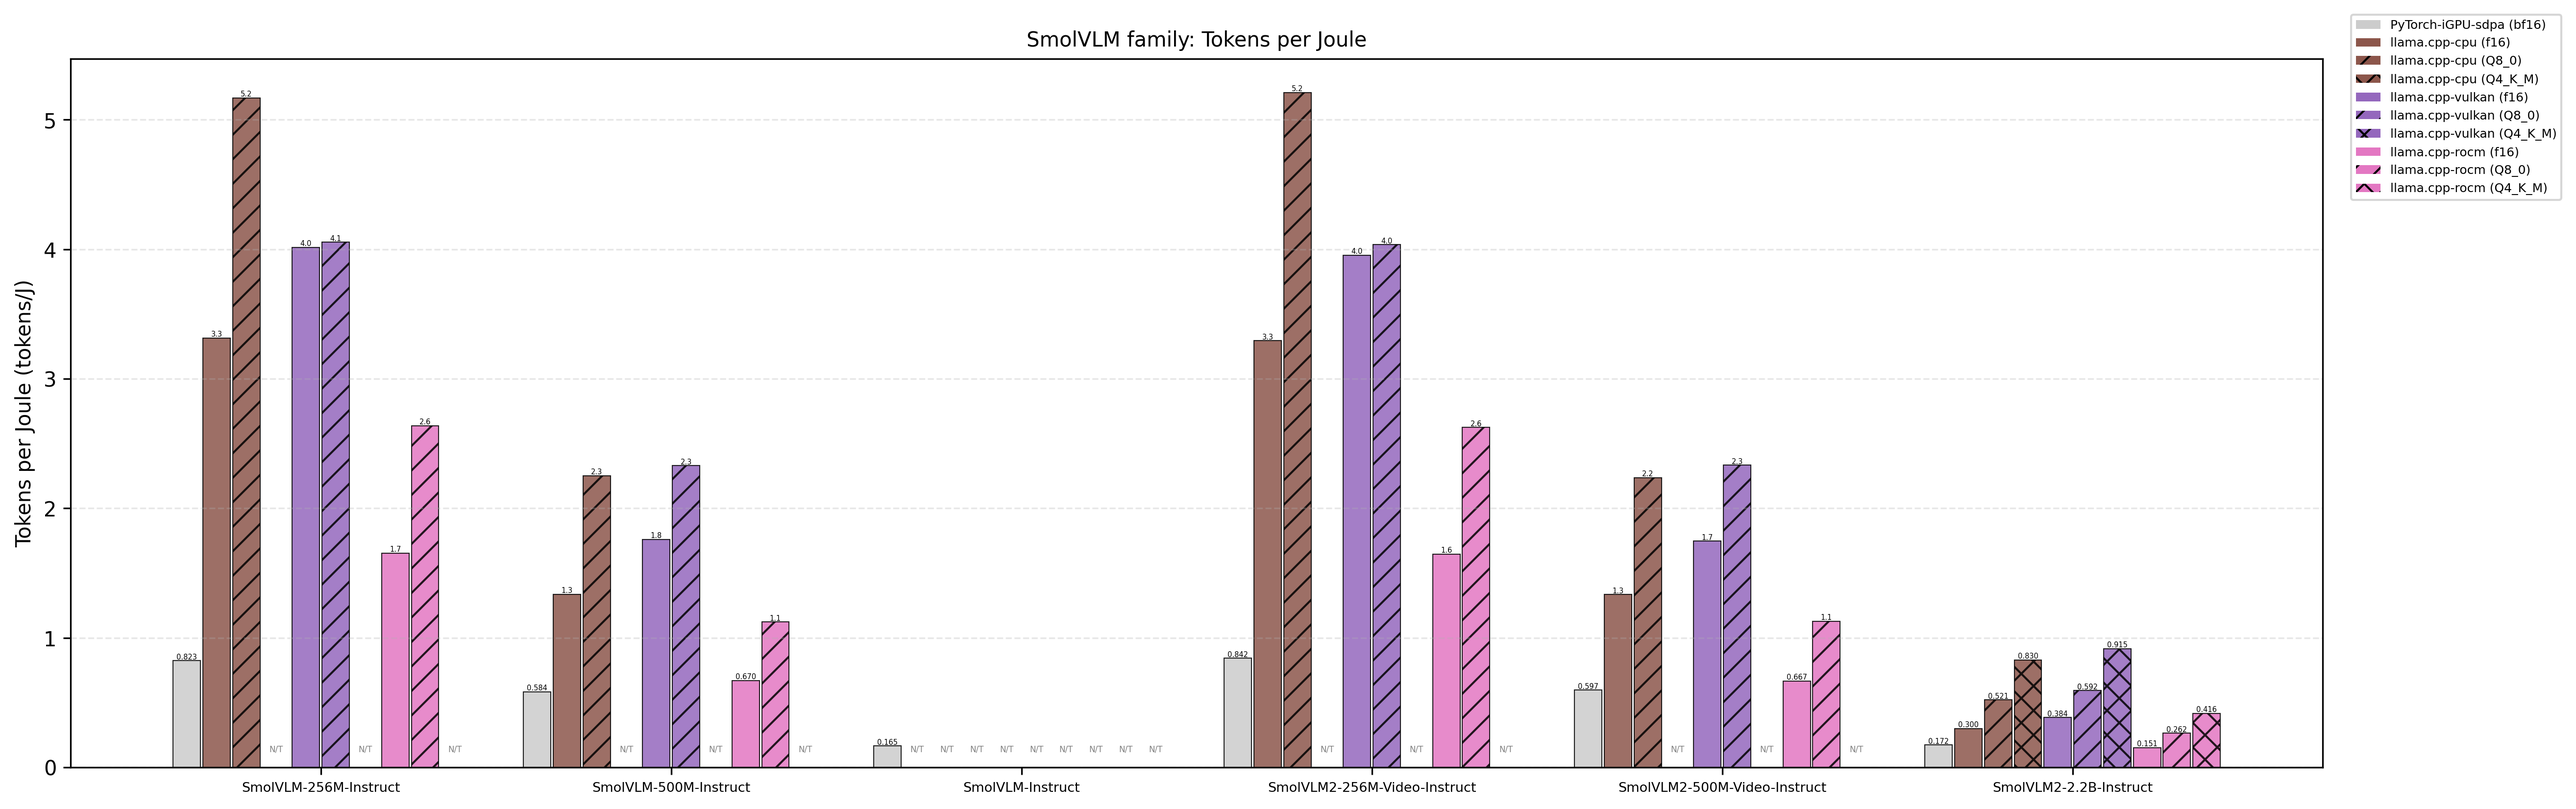
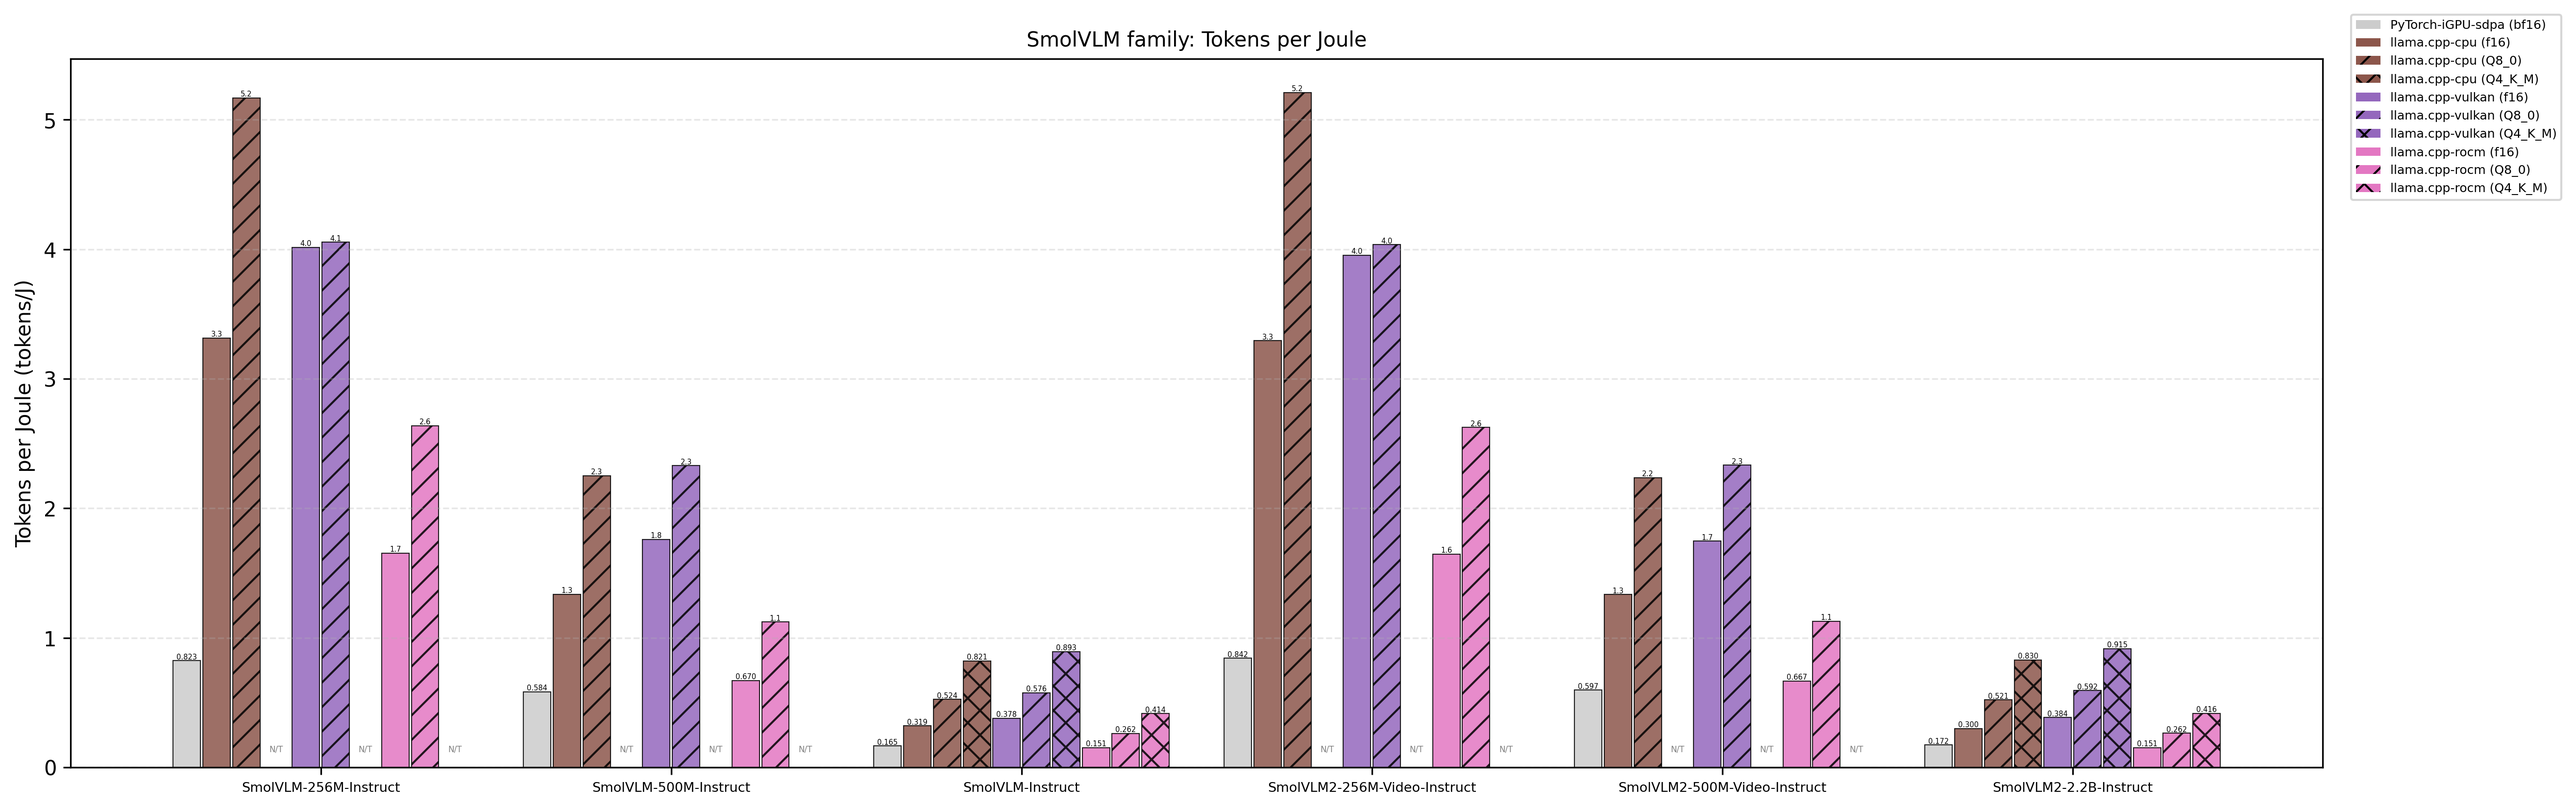
perf(benchmarks): update profiling charts for SmolVLM and SmolVLM2 models

Changed region(s): [[0.3432, 0.8031, 0.4679, 0.9576]]

diff --git a/docs/Profiling/result.md b/docs/Profiling/result.md
@@ -6,12 +6,8 @@
 
 ## 1. SmolVLM-Instruct
 
-!!! warning "llama.cpp Data Pending Retest"
-    SmolVLM-Instruct llama.cpp data was removed due to quality issues. Requires retest with the custom llama.cpp build (see [methodology](methodology.md#llamacpp-build-status)). PyTorch results are below; llama.cpp rows pending.
-
-
 | Dtype | Configuration | TTFT (ms) | TPOT (ms) | Avg Power (W) | Energy per Inference (J) | Peak Memory (GB) | Tokens per Joule |
-|---|---|---|---|---|---|---|---|
+|---|---|---|---|---|---|---|---|---|
 | **BF16** | Windows-PyTorch-CPU | 153479.1 | 177.8 | 50.65 | 10026.4 | 5.07 | 0.0128 |
 | | WSL-PyTorch-CPU | 128283.0 | 288.0 | 45.26 | 19624.3 | 5.92 | 0.0065 |
 | | Linux-PyTorch-CPU | 108474.0 | 147.4 | 51.03 | 6645.3 | 6.30 | 0.0193 |
@@ -21,15 +17,15 @@
 | | Windows-PyTorch-iGPU-SDPA | 6954.4 | 107.0 | 42.75 | 936.4 | 5.09 | 0.1367 |
 | | WSL-PyTorch-iGPU-SDPA | 7272.6 | 105.9 | 45.49 | 1091.4 | 5.09 | 0.1173 |
 | | Linux-PyTorch-iGPU-SDPA | 6933.8 | 99.22 | 37.65 | 777.9 | 5.09 | 0.1645 |
-| **f16** | Linux-llama.cpp-CPU | - | - | - | - | - | - |
-| | Linux-llama.cpp-iGPU-Vulkan | - | - | - | - | - | - |
-| | Linux-llama.cpp-iGPU-ROCm | - | - | - | - | - | - |
-| **Q8_0** | Linux-llama.cpp-CPU | - | - | - | - | - | - |
-| | Linux-llama.cpp-iGPU-Vulkan | - | - | - | - | - | - |
-| | Linux-llama.cpp-iGPU-ROCm | - | - | - | - | - | - |
-| **Q4_K_M** | Linux-llama.cpp-CPU | - | - | - | - | - | - |
-| | Linux-llama.cpp-iGPU-Vulkan | - | - | - | - | - | - |
-| | Linux-llama.cpp-iGPU-ROCm | - | - | - | - | - | - |
+| **f16** | Linux-llama.cpp-CPU | 371.1 | 59.98 | 47.65 | 400.7 | 7.02 | 0.319 |
+| | Linux-llama.cpp-iGPU-Vulkan | 115.6 | 46.75 | 53.29 | 338.3 | 0.20 | 0.378 |
+| | Linux-llama.cpp-iGPU-ROCm | 750.7 | 59.47 | 97.87 | 845.4 | 7.02 | 0.151 |
+| **Q8_0** | Linux-llama.cpp-CPU | 306.9 | 32.90 | 51.28 | 244.1 | 5.43 | 0.524 |
+| | Linux-llama.cpp-iGPU-Vulkan | 94.7 | 24.37 | 67.43 | 222.3 | 0.20 | 0.576 |
+| | Linux-llama.cpp-iGPU-ROCm | 339.9 | 32.81 | 105.3 | 489.1 | 5.44 | 0.262 |
+| **Q4_K_M** | Linux-llama.cpp-CPU | 305.1 | 20.12 | 51.95 | 155.9 | 4.68 | 0.821 |
+| | Linux-llama.cpp-iGPU-Vulkan | 95.3 | 15.36 | 68.10 | 143.3 | 0.20 | 0.893 |
+| | Linux-llama.cpp-iGPU-ROCm | 295.7 | 20.10 | 105.2 | 308.9 | 4.68 | 0.414 |
 
 ### Charts
 
@@ -92,7 +88,7 @@
 ## 3. Full SmolVLM Family (All Models)
 
 !!! info "Model Naming & Test Environment"
-    SmolVLM-Instruct (original) and SmolVLM2-* (second generation, adds video understanding). **All tests in this table are on Linux** — PyTorch rows use iGPU-BF16-SDPA, llama.cpp rows cover CPU/Vulkan/ROCm backends. llama.cpp data for SmolVLM-Instruct is pending retest (custom build needed).
+    SmolVLM-Instruct (original) and SmolVLM2-* (second generation, adds video understanding). **All tests in this table are on Linux** — PyTorch rows use iGPU-BF16-SDPA, llama.cpp rows cover CPU/Vulkan/ROCm backends.
 
 | Model | Backend | Dtype | TTFT (ms) | TPOT (ms) | Avg Power (W) | Energy per Inference (J) | Peak Memory (GB) | Tokens per Joule |
 |---|---|---|---|---|---|---|---|---|
@@ -117,15 +113,15 @@
 | | llama.cpp-rocm | Q8_0 | 76.26 | 7.68 | 105.2 | 114.0 | 0.87 | 1.12 |
 | | llama.cpp-rocm | Q4_K_M | - | - | - | - | - | - |
 | **SmolVLM-Instruct** | PyTorch-iGPU-sdpa | bf16 | 6933.8 | 99.22 | 37.65 | 777.9 | 5.09 | 0.1645 |
-| | llama.cpp-cpu | f16 | - | - | - | - | - | - |
-| | llama.cpp-cpu | Q8_0 | - | - | - | - | - | - |
-| | llama.cpp-cpu | Q4_K_M | - | - | - | - | - | - |
-| | llama.cpp-vulkan | f16 | - | - | - | - | - | - |
-| | llama.cpp-vulkan | Q8_0 | - | - | - | - | - | - |
-| | llama.cpp-vulkan | Q4_K_M | - | - | - | - | - | - |
-| | llama.cpp-rocm | f16 | - | - | - | - | - | - |
-| | llama.cpp-rocm | Q8_0 | - | - | - | - | - | - |
-| | llama.cpp-rocm | Q4_K_M | - | - | - | - | - | - |
+| | llama.cpp-cpu | f16 | 371.1 | 59.98 | 47.65 | 400.7 | 7.02 | 0.319 |
+| | llama.cpp-cpu | Q8_0 | 306.9 | 32.90 | 51.28 | 244.1 | 5.43 | 0.524 |
+| | llama.cpp-cpu | Q4_K_M | 305.1 | 20.12 | 51.95 | 155.9 | 4.68 | 0.821 |
+| | llama.cpp-vulkan | f16 | 115.6 | 46.75 | 53.29 | 338.3 | 0.20 | 0.378 |
+| | llama.cpp-vulkan | Q8_0 | 94.7 | 24.37 | 67.43 | 222.3 | 0.20 | 0.576 |
+| | llama.cpp-vulkan | Q4_K_M | 95.3 | 15.36 | 68.10 | 143.3 | 0.20 | 0.893 |
+| | llama.cpp-rocm | f16 | 750.7 | 59.47 | 97.87 | 845.4 | 7.02 | 0.151 |
+| | llama.cpp-rocm | Q8_0 | 339.9 | 32.81 | 105.3 | 489.1 | 5.44 | 0.262 |
+| | llama.cpp-rocm | Q4_K_M | 295.7 | 20.10 | 105.2 | 308.9 | 4.68 | 0.414 |
 | **SmolVLM2-256M-Video-Instruct** | PyTorch-iGPU-sdpa | bf16 | 2132.4 | 17.85 | 32.62 | 152.0 | 1.39 | 0.8418 |
 | | llama.cpp-cpu | f16 | 67.47 | 5.44 | 48.70 | 38.86 | 0.63 | 3.29 |
 | | llama.cpp-cpu | Q8_0 | 30.14 | 3.31 | 51.93 | 24.57 | 0.48 | 5.21 |

diff --git a/docs/Profiling/index.md b/docs/Profiling/index.md
@@ -26,26 +26,27 @@ This section documents performance profiling for **SmolVLM** (vision-language) a
 !!! tip "iGPU over CPU"
     iGPU acceleration provides **20–22× faster TTFT** and **1.5–2.7× faster TPOT** compared to CPU-only inference, while consuming comparable or lower power.
 
-### llamesa.cpp — Projected Impact (Pending Retest)
+### llama.cpp — Actual Results
 
-!!! abstract "llama.cpp Will Be a Game Changer"
-    While PyTorch iGPU delivers ~7s TTFT, llama.cpp on the **same hardware** with quantized models is projected to achieve **real-time inference** (< 100ms TTFT, ~15ms TPOT), based on results from smaller SmolVLM models:
+!!! abstract "llama.cpp Delivers Real-Time Inference"
+    llama.cpp with quantized models on the **same hardware** achieves **real-time inference** (< 100ms TTFT, ~15ms TPOT) for SmolVLM-Instruct, matching the performance previously seen on smaller models:
 
     | Model | llama.cpp Vulkan TTFT | PyTorch iGPU TTFT | Speedup |
     |---|---|---|---|
-    | SmolVLM2-2.2B | **95 ms** (Q4_K_M) | 6619 ms | **~70×** |
+    | SmolVLM-Instruct (2.2B) | **95 ms** (Q4_K_M) | 6934 ms | **~73×** |
+    | SmolVLM2-2.2B-Instruct | **95 ms** (Q4_K_M) | 6619 ms | **~70×** |
     | SmolVLM-500M | **40 ms** (Q8_0) | 2422 ms | **~60×** |
     | SmolVLM-256M | **20 ms** (f16) | 2133 ms | **~107×** |
 
     These speedups come with quantization-induced accuracy loss that needs evaluation (see [Planned Accuracy Benchmarks](methodology.md#accuracy-benchmarks-planned)).
 
-!!! warning "llama.cpp SmolVLM-Instruct — Requires Custom Build"
-    The **full SmolVLM-Instruct (2.2B) model** cannot run with the **official llama.cpp** release due to model architecture compatibility issues. A custom patch is being developed.
+!!! success "llama.cpp SmolVLM-Instruct — Fully Tested"
+    The **full SmolVLM-Instruct (2.2B) model** has been successfully profiled across CPU, Vulkan, and ROCm backends and all three quantizations (f16, Q8_0, Q4_K_M). See the [Full Results](result.md#1-smolvlm-instruct) for detailed metrics.
 
-    **Recommended alternatives while patch is in progress:**
-    - **SmolVLM2-2.2B-Instruct** (fully compatible, similar quality, ~95ms TTFT via Vulkan Q4_K_M)
-    - **Smaller models** (256M / 500M) via llama.cpp for real-time use cases
-    - **PyTorch with ROCm** for full-precision inference
+!!! success "Key Findings"
+    - **Vulkan Q4_K_M delivers the best latency**: ~95ms TTFT, ~15ms TPOT
+    - **ROCm is on par with CPU** for this model — no GPU acceleration benefit over CPU in llama.cpp
+    - **Vulkan edge case**: GPU offloading reduces host memory drastically (0.2 GB vs 4.7–7.0 GB)
 
 ### VGGT
 
@@ -58,7 +59,7 @@ This section documents performance profiling for **SmolVLM** (vision-language) a
 | iGPU BF16 (Linux) | **30.3s** | **0.066 img/s** | Best result |
 | iGPU F32 (Linux) | 43.3s–45.1s | 0.044–0.046 img/s | Negligible SDPA benefit |
 
-    iGPU results on Windows/WSL are incomplete — see [VGGT section](result.md#3-vggt) for details.
+    iGPU results on Windows/WSL are incomplete — see [VGGT section](result.md#2-vggt) for details.
 
 ### Platform Comparison
 
@@ -82,17 +83,16 @@ The chart above illustrates the dramatic speed difference across model sizes and
 ## Quick Navigation
 
 | Section | Content |
-|---|---|
+|---|---|---|
 | [Methodology](methodology.md) | Hardware specs, software versions, metric definitions |
-| [SmolVLM-Instruct (PyTorch)](result.md#1-smolvlm-instruct-pytorch) | Full precision results across 3 environments |
-| [SmolVLM-Instruct (llama.cpp, Pending)](result.md#2-smolvlm-instruct-llamacpp--pending) | Placeholder for upcoming llama.cpp retest |
-| [VGGT](result.md#3-vggt) | All configs across platforms |
-| [Other SmolVLM Models](result.md#4-other-smolvlm-family-models) | Smaller models, PyTorch + llama.cpp |
+| [SmolVLM-Instruct](result.md#1-smolvlm-instruct) | PyTorch + llama.cpp results across all backends |
+| [VGGT](result.md#2-vggt) | All configs across platforms |
+| [Full SmolVLM Family](result.md#3-full-smolvlm-family-all-models) | All models, PyTorch + llama.cpp |
 
 ## Next Steps
 
 !!! example "Planned Work"
-    1. **Retest llama.cpp SmolVLM-Instruct** on Linux (CPU + Vulkan + ROCm)
+    1. ✅ ~~Retest llama.cpp SmolVLM-Instruct on Linux (CPU + Vulkan + ROCm)~~
     2. **Test llama.cpp on Windows** (CPU + Vulkan) and **WSL** (CPU + ROCm)
     3. **Evaluate quantization accuracy** on TextVQA and AI2D benchmarks
     4. **Complete VGGT iGPU testing** on Windows/WSL

diff --git a/docs/Profiling/methodology.md b/docs/Profiling/methodology.md
@@ -19,20 +19,14 @@
 | **PyTorch** | 2.10.0+rocm7.13.0a20260424 (Linux); Windows: TBD; WSL: TBD |
 | **ROCm** | 7.13.0a (installed via PyPI — `rocm-sdk-core`, `rocm-sdk-libraries-gfx110X-all`) |
 | **Transformers** | 5.8.1 |
-| **llama.cpp** | b9357 (patched for SmolVLM-Instruct) |
+| **llama.cpp** | b9357 (official for most models; patched for SmolVLM-Instruct — see below) |
 
 !!! warning "No Official ROCm Support"
     The Ryzen 7 8845HS / Radeon 760M is **not officially supported** by AMD's ROCm. Community support is provided via [TheRock](https://github.com/ROCm/TheRock) project. GPU driver on Linux uses the open-source `amdgpu` kernel driver.
 
-## llama.cpp Build Status
 
-!!! bug "SmolVLM-Instruct Full Model"
-    The **full SmolVLM-Instruct (2.2B) model** cannot be correctly inferred with the **official llama.cpp** build due to model architecture compatibility issues. A custom patch is being developed to add proper support. See pending [GitHub issue](#) (TBD).
-
-    **Recommended alternatives while the patch is in progress:**
-    - Use **SmolVLM2-2.2B-Instruct** (fully compatible, similar quality)
-    - Use **smaller models** (SmolVLM-256M / 500M) via llama.cpp for real-time use cases
-    - Use **PyTorch with ROCm** for full-precision inference
+!!! note "llama.cpp (b9357) — SmolVLM-Instruct patch"
+    Tests used the official `llama.cpp` `b9357` and official GGUF images. SmolVLM-Instruct (2.2B) required a small quick-fix because its tokenizer lacked the IDEFICS3 marker `<global-img>`, which caused `lookup_token` to return `LLAMA_TOKEN_NULL` (−1) and fail decoding. For testing we filtered out `LLAMA_TOKEN_NULL` in `mtmd.cpp`; the proper fix is to add missing marker tokens during HF→GGUF conversion (see `conversion/smolvlm.py->_set_vocab_llama_hf`).
 
 ## Test Environments
 
@@ -50,7 +44,7 @@ Three environments were benchmarked:
 |---|---|---|---|
 | SmolVLM-256M-Instruct | 256M | Vision-Language | ✅ Yes |
 | SmolVLM-500M-Instruct | 500M | Vision-Language | ✅ Yes |
-| SmolVLM-Instruct | 2.2B | Vision-Language | ❌ Fork/Patch needed |
+| SmolVLM-Instruct | 2.2B | Vision-Language | ✅ Yes (patched build b9357) |
 | SmolVLM2-256M-Video-Instruct | 256M | Vision-Language (Video) | ✅ Yes |
 | SmolVLM2-500M-Video-Instruct | 500M | Vision-Language (Video) | ✅ Yes |
 | SmolVLM2-2.2B-Instruct | 2.2B | Vision-Language (Video) | ✅ Yes |
